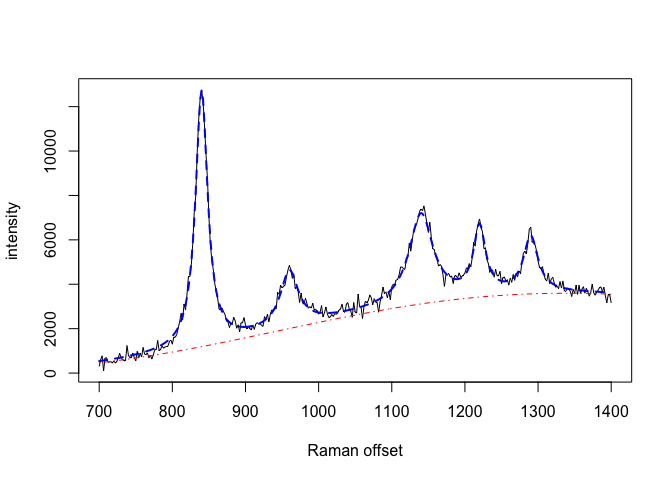
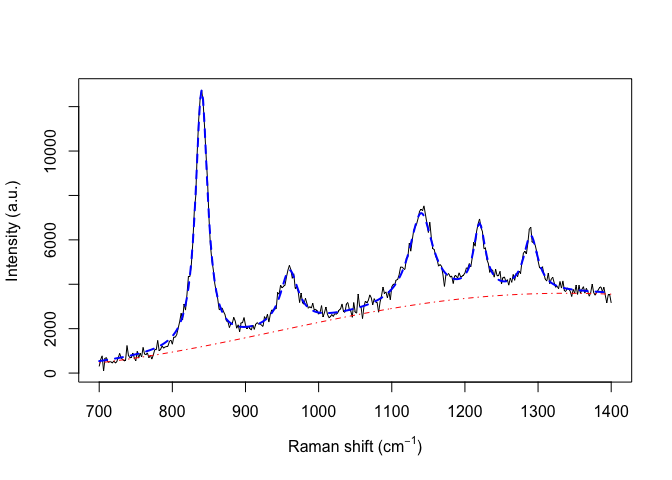
modified README and vignettes as well as the Travis CI script

Changed region(s): [[0.4062, 0.9062, 0.625, 0.9688], [0.0, 0.375, 0.0312, 0.5938]]

diff --git a/README.md b/README.md
@@ -1,4 +1,6 @@
 
+# serrsBayes
+
 <!-- README.md is generated from README.Rmd. Please edit that file -->
 
 [![cran
@@ -11,8 +13,6 @@ Status](https://travis-ci.org/mooresm/serrsBayes.svg?branch=master)](https://tra
 Status](https://img.shields.io/codecov/c/github/mooresm/serrsBayes/master.svg)](https://codecov.io/github/mooresm/serrsBayes?branch=master)
 
 <img src="inst/image/README-logo.png" width="100px" height="100px" style="display: block; margin: auto 0 auto auto;" />
-
-# serrsBayes
 
 `serrsBayes` provides model-based quantification of surface-enhanced
 resonance Raman spectroscopy (SERRS) using sequential Monte Carlo (SMC)
@@ -61,7 +61,7 @@ peakScale <- c(10, 15, 20, 10, 12)
 signature <- weightedLorentzian(peakLocations, peakScale, peakAmplitude, wavenumbers)
 baseline <- 1000*cos(wavenumbers/200) + 2*wavenumbers
 spectra[1,] <- signature + baseline + rnorm(length(wavenumbers),0,200)
-plot(wavenumbers, spectra[1,], type='l', xlab="Raman offset", ylab="intensity")
+plot(wavenumbers, spectra[1,], type='l', xlab=expression(paste("Raman shift (cm"^{-1}, ")")), ylab="Intensity (a.u.)")
 lines(wavenumbers, baseline, col=2, lty=4)
 lines(wavenumbers, baseline + signature, col=4, lty=2, lwd=2)
 ```
@@ -82,9 +82,9 @@ Sample 200 particles from the posterior distribution:
 ``` r
 print(tm)
 #>    user  system elapsed 
-#> 484.665   8.203 145.785
+#> 217.139   2.145 220.691
 samp.idx <- sample.int(length(result$weights), 200, prob=result$weights)
-plot(wavenumbers, spectra[1,], type='l', xlab="Raman offset", ylab="intensity")
+plot(wavenumbers, spectra[1,], type='l', xlab=expression(paste("Raman shift (cm"^{-1}, ")")), ylab="Intensity (a.u.)")
 for (pt in samp.idx) {
   bl.est <- result$basis %*% result$alpha[,1,pt]
   lines(wavenumbers, bl.est, col="#C3000009")
